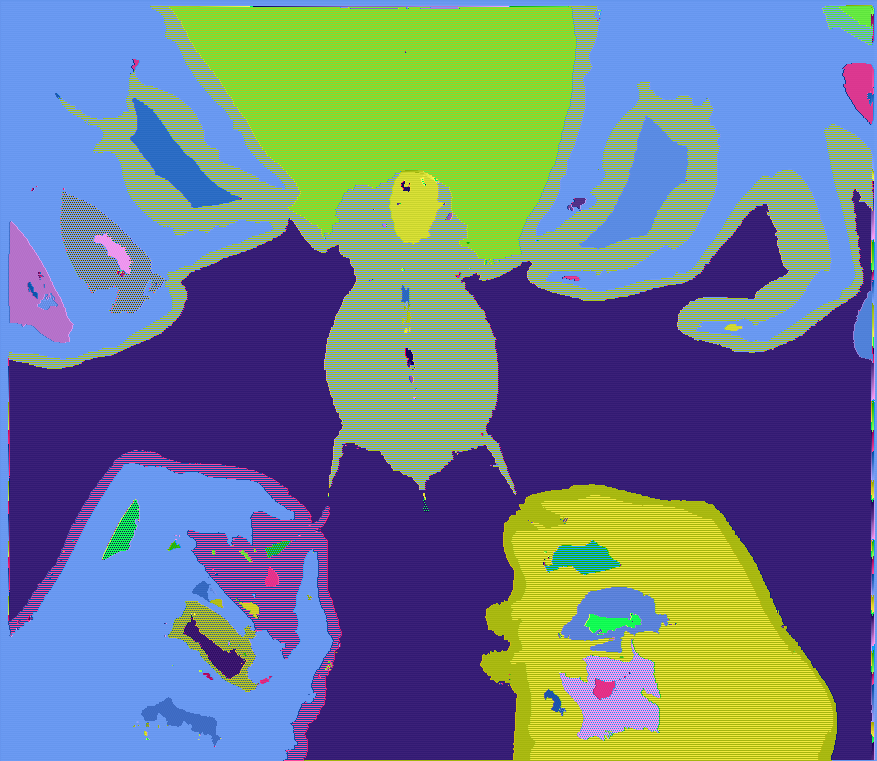
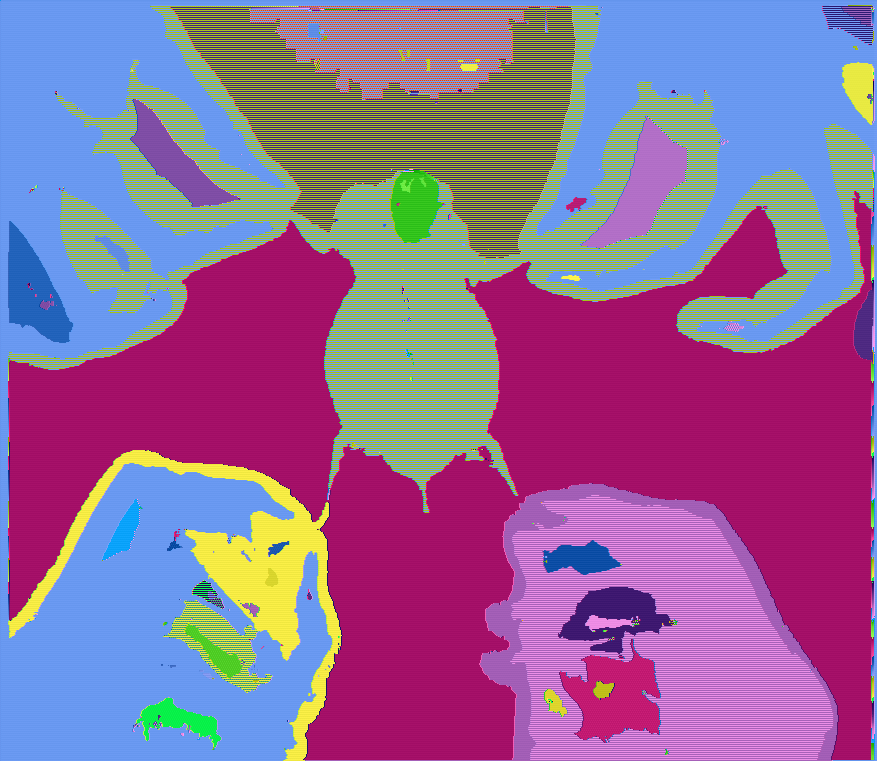
Oooook, may be this one

diff --git a/main.c b/main.c
@@ -9,8 +9,8 @@
 #define STB_IMAGE_WRITE_IMPLEMENTATION
 #include "stb_image_write.h"
 
-#define BLACK 93
-#define WHITE 167
+#define BLACK 90
+#define WHITE 170
 
 unsigned char* color_to_grey(unsigned char* Image, int w, int h, int n){
 	int i, k = 0;
